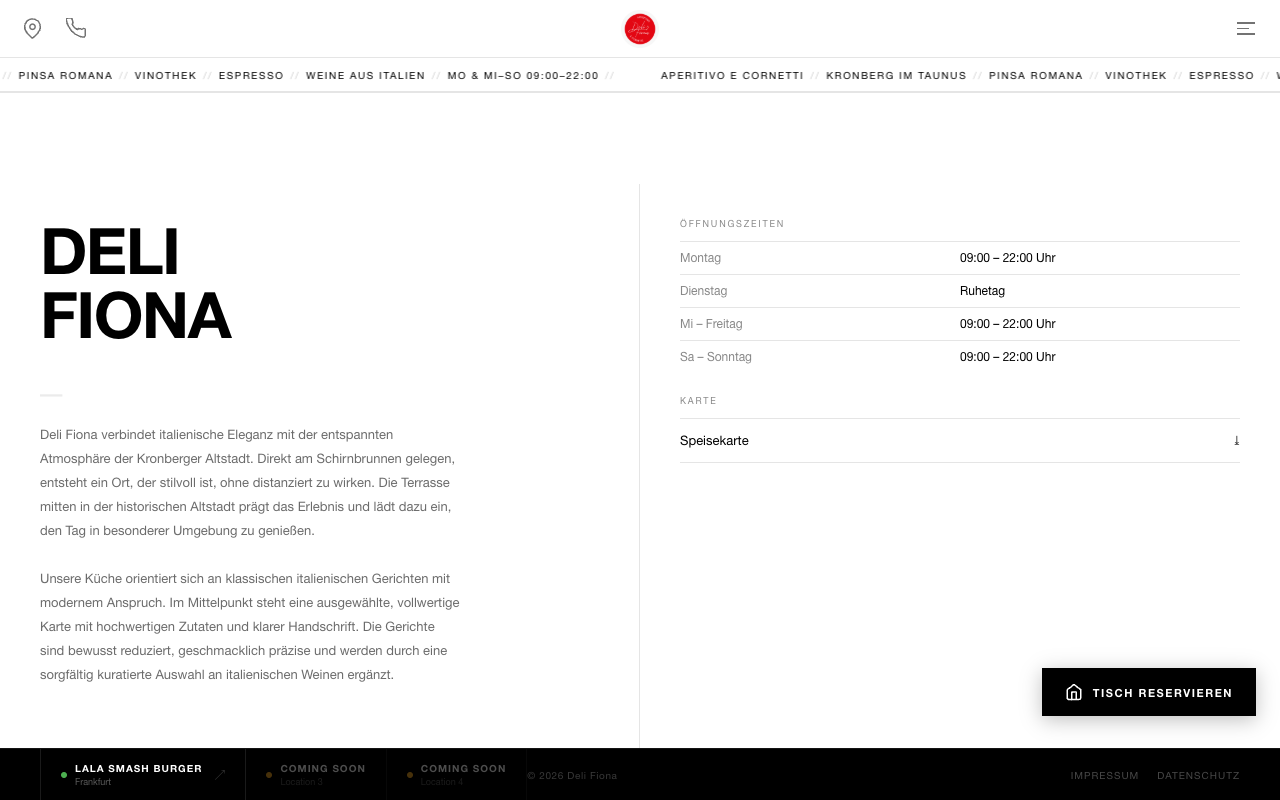
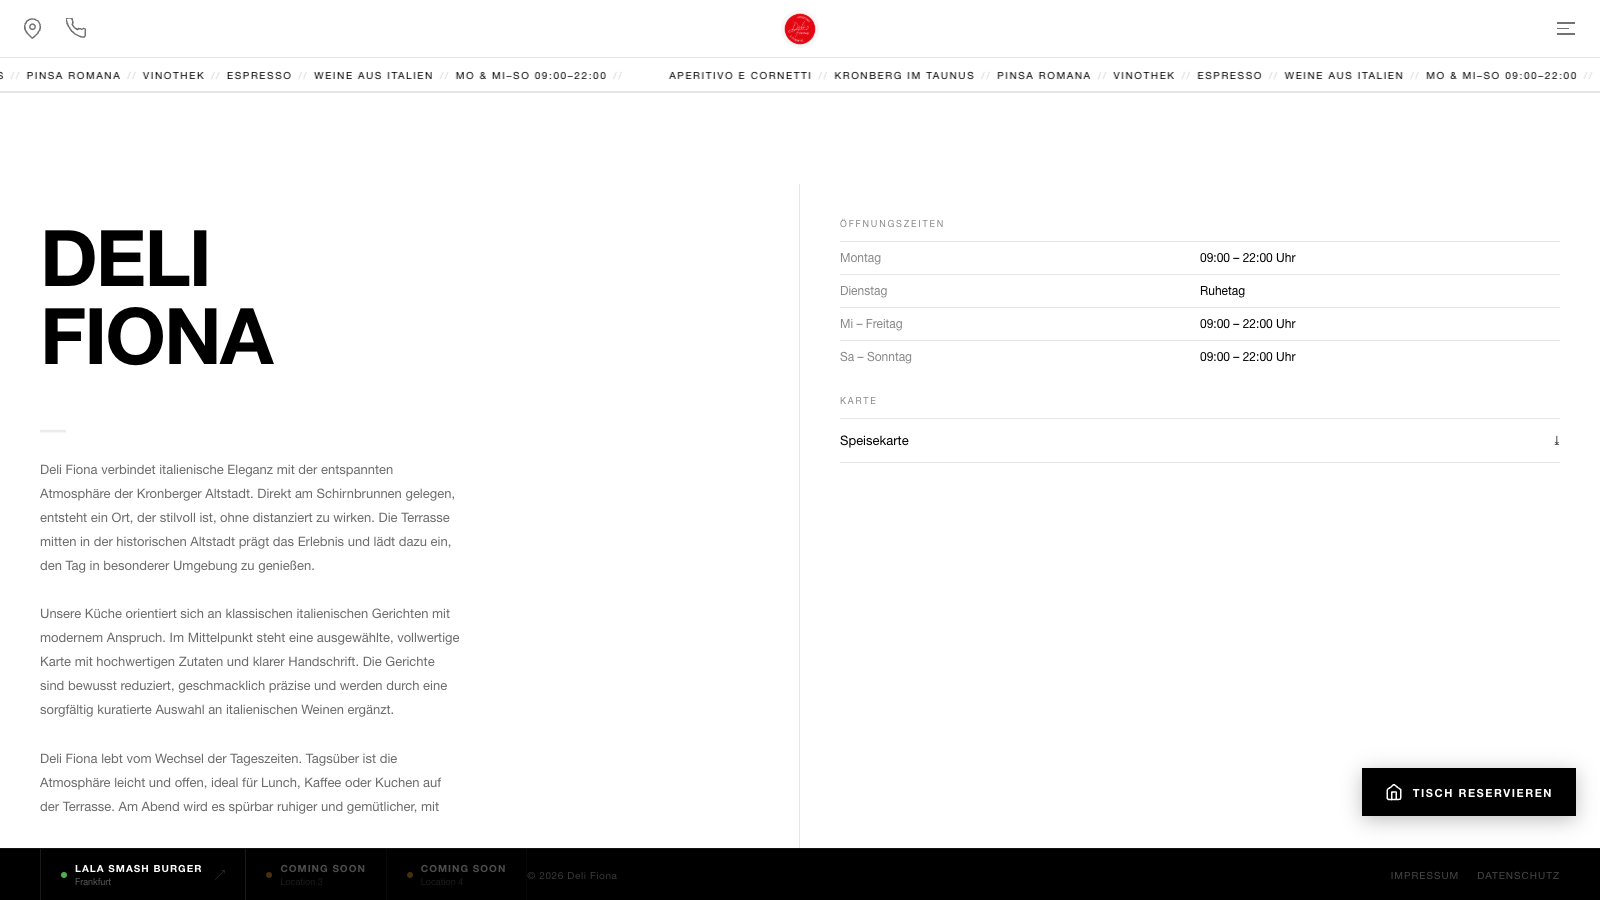
Portfolio-Previews 16:9 (1600×900), Screenshots angepasst
Made-with: Cursor

diff --git a/index.html b/index.html
@@ -642,7 +642,7 @@ a.portfolio-shot {
 }
 .portfolio-shot img {
   width: 100%;
-  aspect-ratio: 16 / 10;
+  aspect-ratio: 16 / 9;
   object-fit: cover;
   object-position: center 12%;
   display: block;
@@ -1820,7 +1820,7 @@ footer a:hover { color: var(--accent); }
 
       <div class="portfolio-item reveal">
         <a href="https://luolou.de" target="_blank" rel="noopener noreferrer" class="portfolio-shot portfolio-shot--luolou">
-          <img src="assets/previews/luolou.png" alt="Screenshot luolou.de — Restaurant Luolou, Kronberg" width="1280" height="800" loading="lazy" decoding="async">
+          <img src="assets/previews/luolou.png" alt="Screenshot luolou.de — Restaurant Luolou, Kronberg" width="1600" height="900" loading="lazy" decoding="async">
           <span class="portfolio-shot-cap">luolou.de · Live</span>
         </a>
         <div class="portfolio-info">
@@ -1834,7 +1834,7 @@ footer a:hover { color: var(--accent); }
 
       <div class="portfolio-item reveal">
         <a href="https://www.delifiona.de/" target="_blank" rel="noopener noreferrer" class="portfolio-shot portfolio-shot--delifiona">
-          <img src="assets/previews/delifiona.png" alt="Screenshot delifiona.de — Deli Fiona, Restaurant &amp; Vinothek Kronberg" width="1280" height="800" loading="lazy" decoding="async">
+          <img src="assets/previews/delifiona.png" alt="Screenshot delifiona.de — Deli Fiona, Restaurant &amp; Vinothek Kronberg" width="1600" height="900" loading="lazy" decoding="async">
           <span class="portfolio-shot-cap">delifiona.de · Live</span>
         </a>
         <div class="portfolio-info">
@@ -1848,7 +1848,7 @@ footer a:hover { color: var(--accent); }
 
       <div class="portfolio-item reveal">
         <a href="https://bevisiblle.de" target="_blank" rel="noopener noreferrer" class="portfolio-shot portfolio-shot--bevis">
-          <img src="assets/previews/bevisiblle.png" alt="Screenshot bevisiblle.de — Job-Netzwerk" width="1280" height="800" loading="lazy" decoding="async">
+          <img src="assets/previews/bevisiblle.png" alt="Screenshot bevisiblle.de — Job-Netzwerk" width="1600" height="900" loading="lazy" decoding="async">
           <span class="portfolio-shot-cap">bevisiblle.de · Live</span>
         </a>
         <div class="portfolio-info">
@@ -1862,7 +1862,7 @@ footer a:hover { color: var(--accent); }
 
       <div class="portfolio-item reveal">
         <a href="https://baypw.de" target="_blank" rel="noopener noreferrer" class="portfolio-shot portfolio-shot--baypw">
-          <img src="assets/previews/baypw.png" alt="Screenshot baypw.de — Bayerisches Pflegewerk" width="1280" height="800" loading="lazy" decoding="async">
+          <img src="assets/previews/baypw.png" alt="Screenshot baypw.de — Bayerisches Pflegewerk" width="1600" height="900" loading="lazy" decoding="async">
           <span class="portfolio-shot-cap">baypw.de · Live</span>
         </a>
         <div class="portfolio-info">
@@ -1876,7 +1876,7 @@ footer a:hover { color: var(--accent); }
 
       <div class="portfolio-item reveal">
         <a href="https://www.gaerte-shk.de/" target="_blank" rel="noopener noreferrer" class="portfolio-shot portfolio-shot--gaerte">
-          <img src="assets/previews/gaerte-shk.png" alt="Screenshot gaerte-shk.de — Gaerte GmbH Sanitär &amp; Heizung, Hamburg" width="1280" height="800" loading="lazy" decoding="async">
+          <img src="assets/previews/gaerte-shk.png" alt="Screenshot gaerte-shk.de — Gaerte GmbH Sanitär &amp; Heizung, Hamburg" width="1600" height="900" loading="lazy" decoding="async">
           <span class="portfolio-shot-cap">gaerte-shk.de · Live</span>
         </a>
         <div class="portfolio-info">
